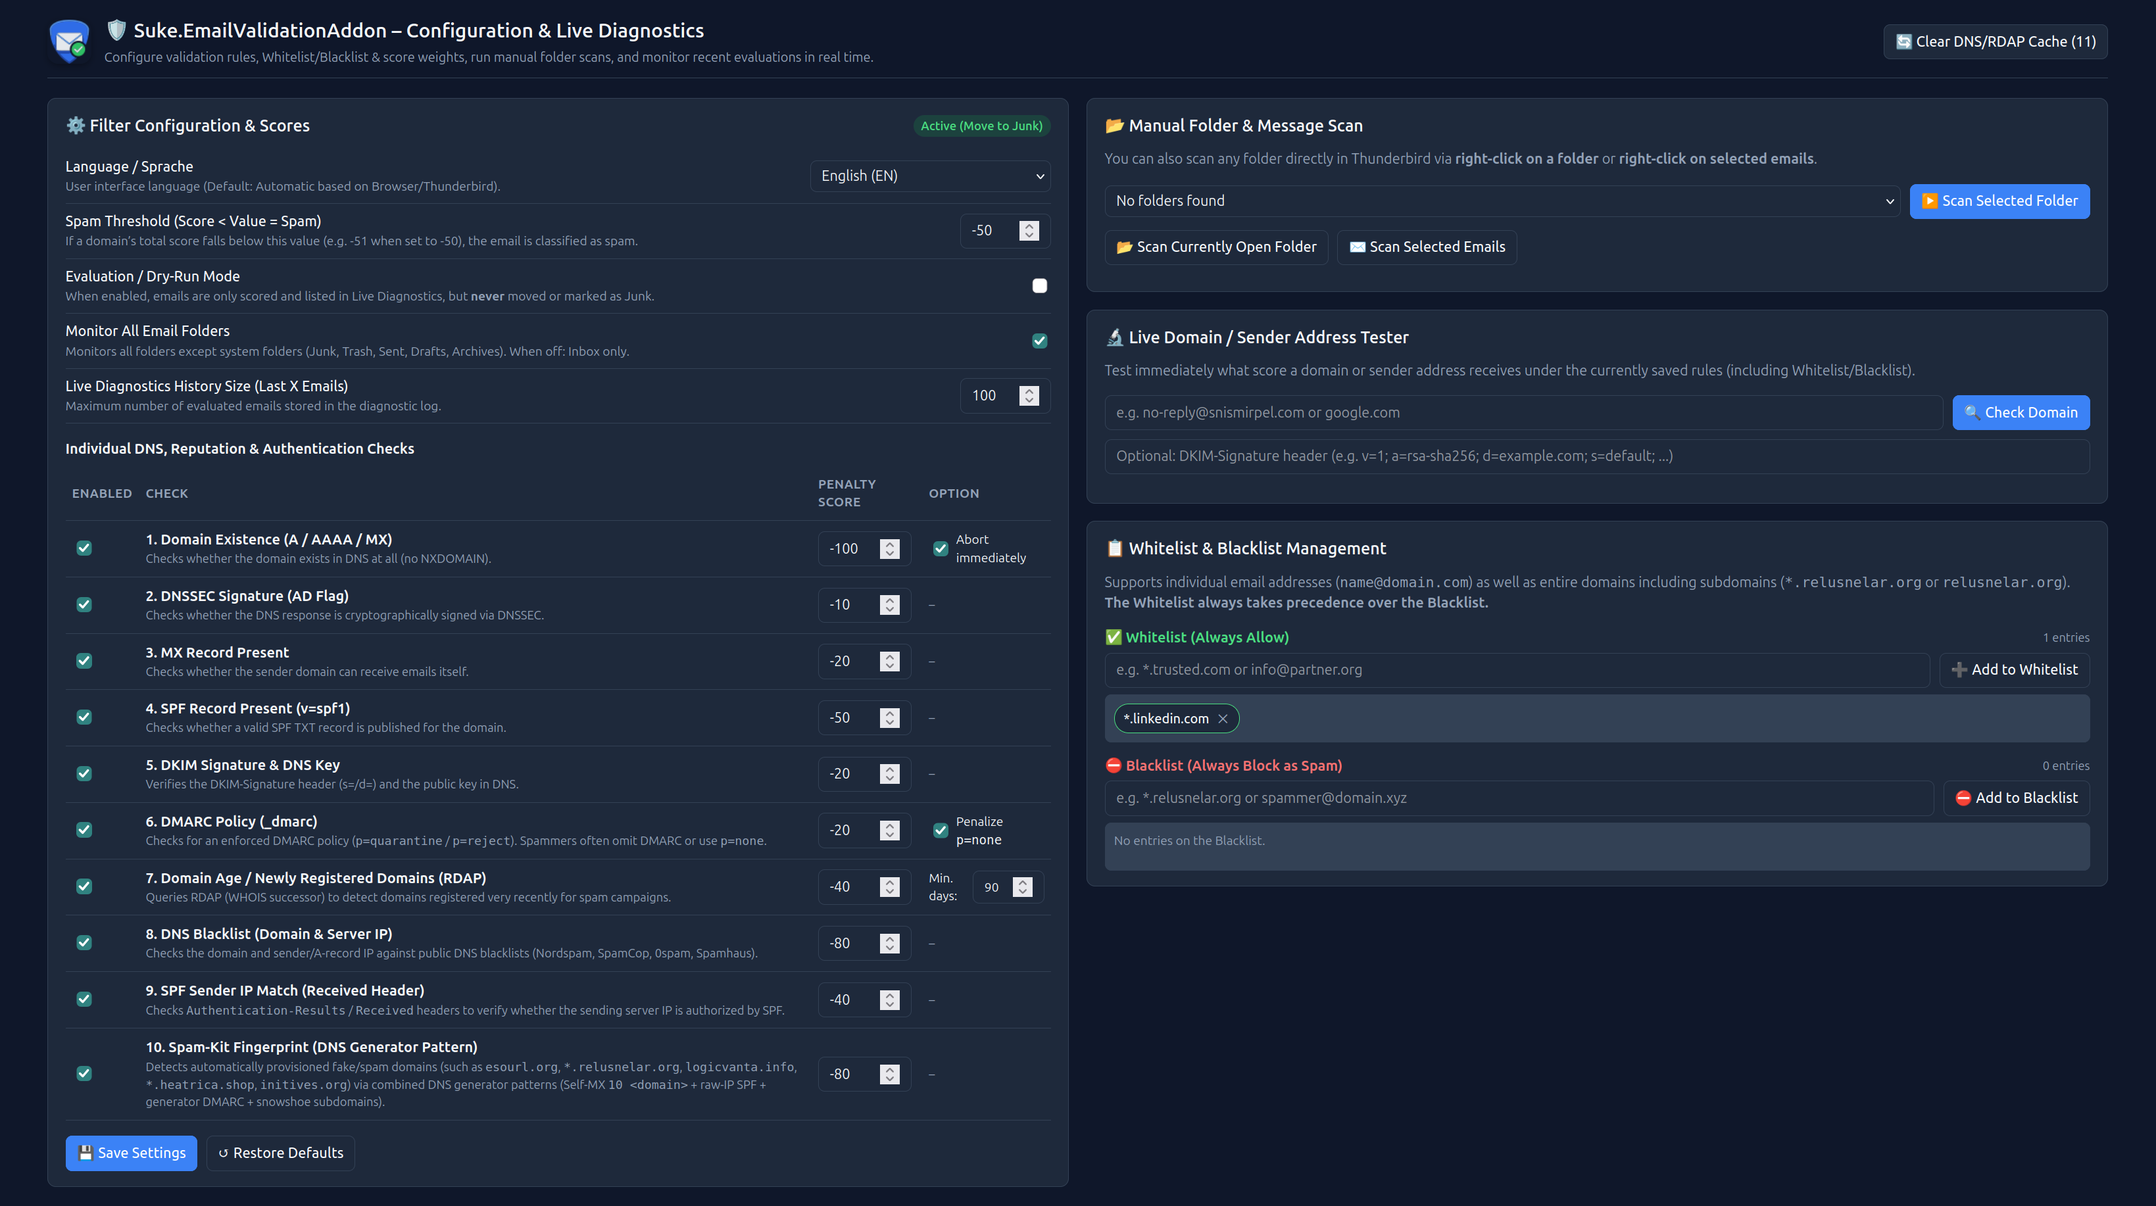
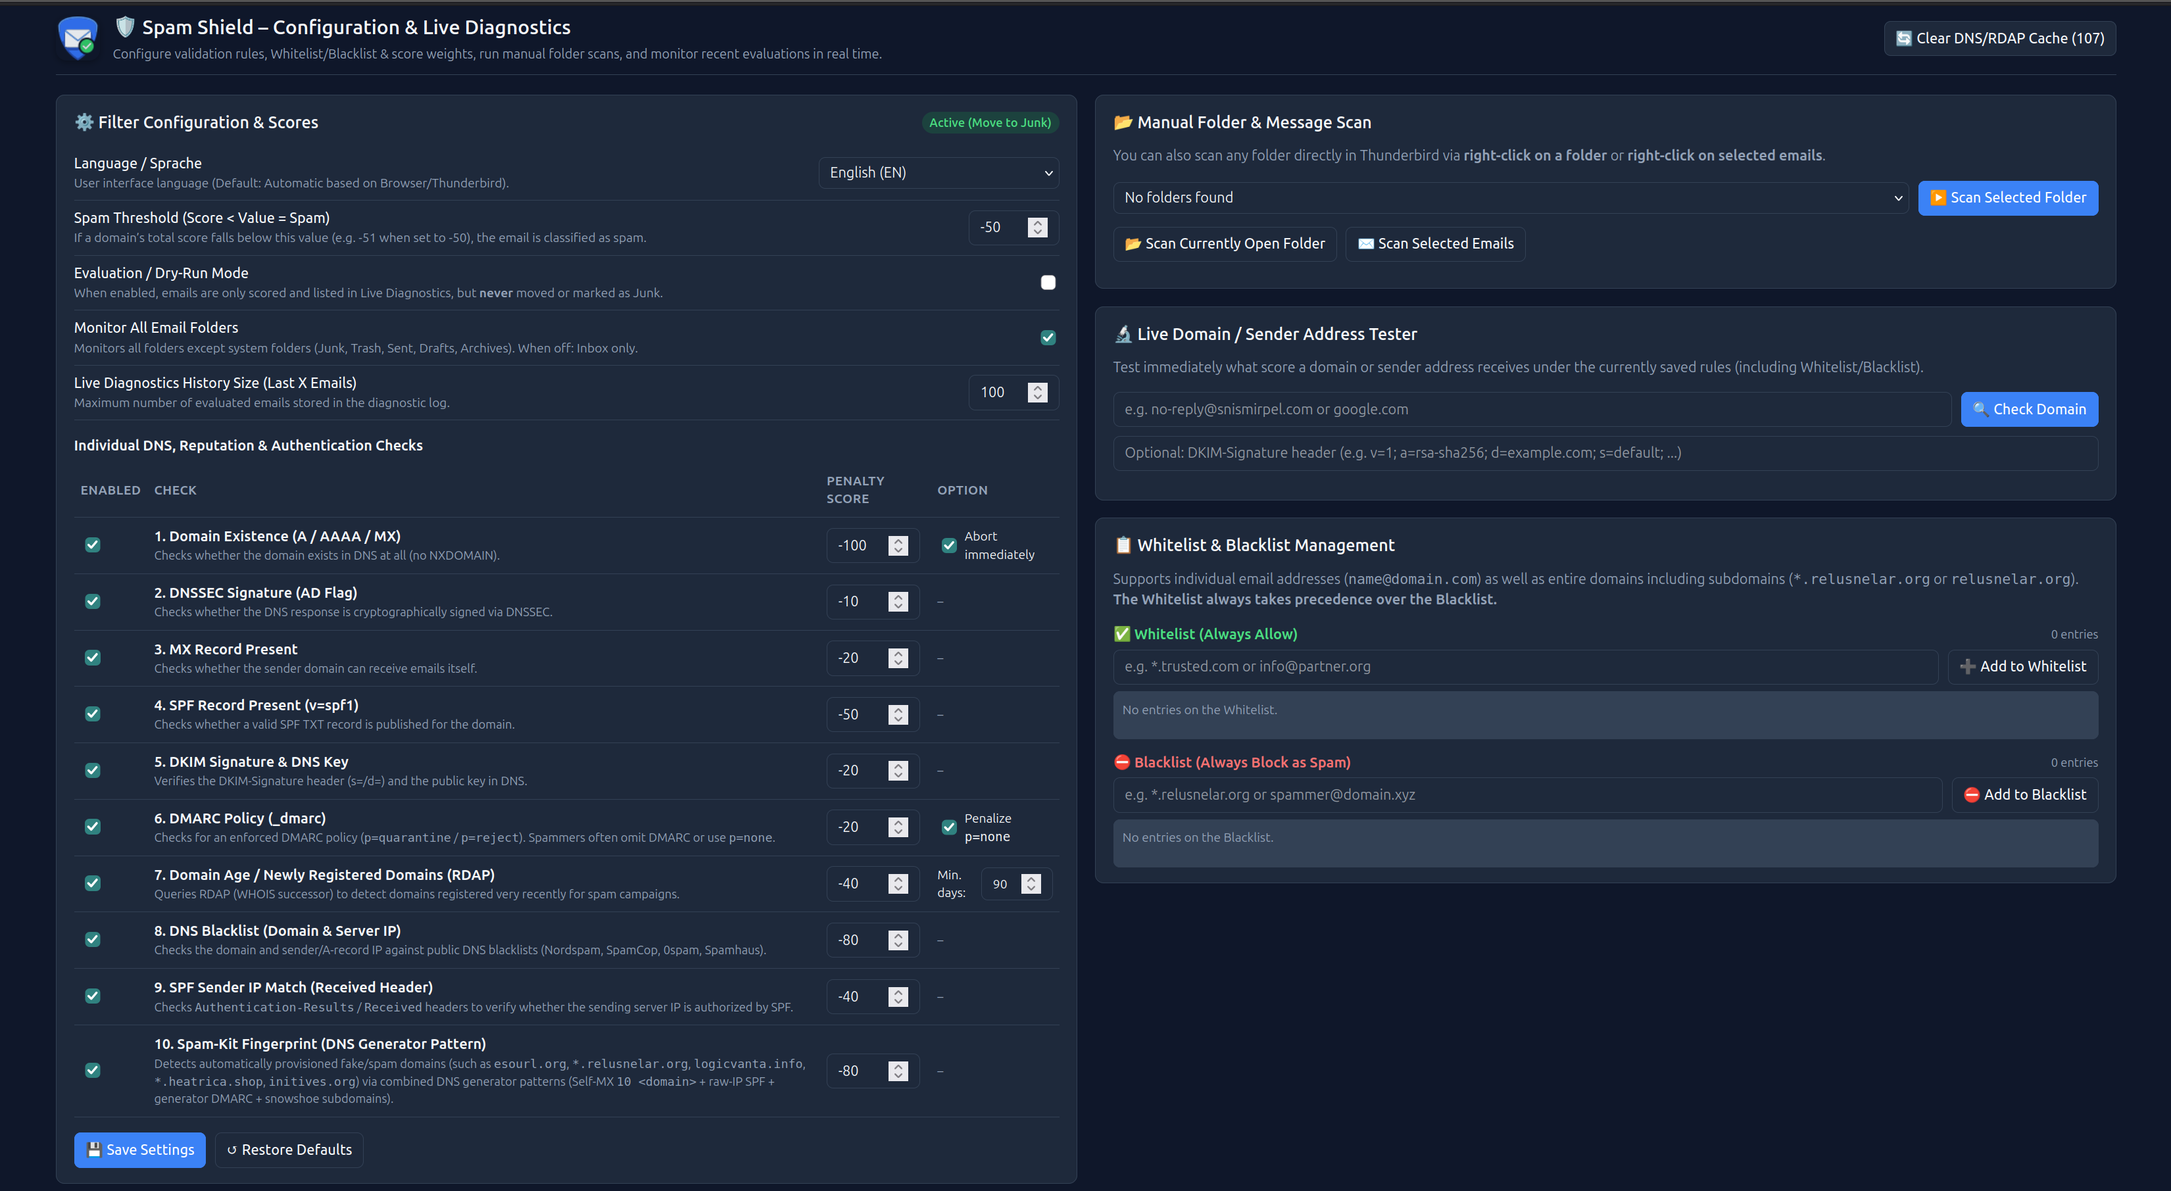
Allow check of Spam folder & Rebranding to "Spam Shield" & NEW Screentshots

diff --git a/background.js b/background.js
@@ -28,6 +28,22 @@ const g_RDAP_CACHE_TTL_MS = 60 * 60 * 1000; // 60 minutes
 const g_IGNORED_FOLDER_TYPES = new Set(['junk', 'trash', 'sent', 'drafts', 'templates', 'outbox', 'archives']);
 
 /**
+ * Checks whether a folder represents a Junk, Spam, or Trash folder
+ * @param {object|null} folder MailFolder object
+ * @returns {boolean}
+ */
+function isJunkOrTrashFolder(folder) {
+    if (!folder) return false;
+    if (Array.isArray(folder.specialUse)) {
+        if (folder.specialUse.includes('junk') || folder.specialUse.includes('trash')) {
+            return true;
+        }
+    }
+    const name = (folder.name || '').toLowerCase();
+    return name === 'junk' || name === 'spam' || name === 'spamverdacht' || name === 'trash' || name === 'papierkorb';
+}
+
+/**
  * Default configuration for checks, scores, and behavior
  */
 const DEFAULT_SETTINGS = {
@@ -468,9 +484,20 @@ async function evaluateAndProcessMessage(message, folder, settings, source = 'au
         }
 
         // Use getHeaders() instead of getFull() to avoid parsing the full MIME body
-        const headers = messenger.messages.getHeaders
-            ? await messenger.messages.getHeaders(message.id)
-            : (await messenger.messages.getFull(message.id)).headers;
+        // Protected by a timeout promise so slow/unresponsive IMAP connections never freeze evaluation
+        let headers = null;
+        try {
+            const headersPromise = messenger.messages.getHeaders
+                ? messenger.messages.getHeaders(message.id)
+                : messenger.messages.getFull(message.id).then(m => m.headers);
+            headers = await Promise.race([
+                headersPromise,
+                new Promise((_, reject) => setTimeout(() => reject(new Error('getHeaders timeout (5s)')), 5000))
+            ]);
+        } catch (headerErr) {
+            console.warn(`Could not retrieve headers for message ${message.id}:`, headerErr);
+            headers = null;
+        }
         const dkimSig = headers ? headers['dkim-signature'] : null;
 
         // Perform detailed domain validation (passing full headers and senderEmail for Whitelist/Blacklist & SPF-IP)
@@ -600,12 +627,24 @@ async function scanMessageList(msgList, folder = null, source = 'message-scan') 
 
     try {
         for (const message of allMessages) {
-            const res = await evaluateAndProcessMessage(message, effectiveFolder || message.folder, settings, source);
-            g_SCAN_STATE.processed += 1;
-            if (res && res.isSpam) {
-                g_SCAN_STATE.spamCount += 1;
+            try {
+                // Per-message safety timeout: max 15 seconds per email so one bad query never blocks the scan
+                const res = await Promise.race([
+                    evaluateAndProcessMessage(message, effectiveFolder || message.folder, settings, source),
+                    new Promise((_, reject) => setTimeout(() => reject(new Error('Evaluation timeout (15s)')), 15000))
+                ]);
+                if (res && res.isSpam) {
+                    g_SCAN_STATE.spamCount += 1;
+                }
+            } catch (msgErr) {
+                console.error(`Error or timeout processing message ${message.id}:`, msgErr);
+            } finally {
+                g_SCAN_STATE.processed += 1;
+                notifyUI({ type: 'SCAN_PROGRESS', scanState: g_SCAN_STATE });
             }
-            notifyUI({ type: 'SCAN_PROGRESS', scanState: g_SCAN_STATE });
+
+            // Yield 50ms between messages so the event loop stays responsive and DoH/RDAP servers are not hammered
+            await new Promise(r => setTimeout(r, 50));
         }
     } finally {
         g_SCAN_STATE.running = false;
@@ -632,7 +671,13 @@ async function markAndMoveToSpam(message, sourceFolder) {
         console.warn(`Could not update junk flag on message ${message.id}:`, err);
     }
 
-    // 2. Find the Junk folder for this account and move the message
+    // 2. If message is already located in a Junk, Spam, or Trash folder, do not attempt to move it
+    if (isJunkOrTrashFolder(sourceFolder) || isJunkOrTrashFolder(message.folder)) {
+        console.log(`Message ${message.id} is already in a Junk/Spam folder. Skipping move.`);
+        return;
+    }
+
+    // 3. Find the Junk folder for this account and move the message
     try {
         const accountId = (sourceFolder && sourceFolder.accountId) || (message.folder && message.folder.accountId);
         if (!accountId) {
@@ -1218,8 +1263,11 @@ async function getRdapTldMap() {
     }
 
     g_RDAP_BOOTSTRAP_PROMISE = (async () => {
+        const controller = new AbortController();
+        const timeoutId = setTimeout(() => controller.abort(), 4000);
         try {
-            const response = await fetch(g_IANA_RDAP_BOOTSTRAP_URL);
+            const response = await fetch(g_IANA_RDAP_BOOTSTRAP_URL, { signal: controller.signal });
+            clearTimeout(timeoutId);
             if (!response.ok) {
                 return new Map();
             }
@@ -1713,9 +1761,12 @@ async function getDNSEntry(domain, type, returnRawStatus = false) {
     } else {
         const url = `${g_DOH_SERVICE_URL}?name=${encodeURIComponent(domain)}&type=${encodeURIComponent(type)}`;
         const headers = { 'accept': 'application/dns-json' };
+        const controller = new AbortController();
+        const timeoutId = setTimeout(() => controller.abort(), 4000);
 
         try {
-            const response = await fetch(url, { headers });
+            const response = await fetch(url, { headers, signal: controller.signal });
+            clearTimeout(timeoutId);
             if (!response.ok) {
                 console.warn(`DoH HTTP error (${response.status}) for ${domain} (${type}).`);
                 return null;
@@ -1723,6 +1774,7 @@ async function getDNSEntry(domain, type, returnRawStatus = false) {
             data = await response.json();
             g_DNS_CACHE.set(cacheKey, { timestamp: now, data });
         } catch (error) {
+            clearTimeout(timeoutId);
             console.error('DNS query failed:', error);
             return null;
         }

diff --git a/i18n.js b/i18n.js
@@ -1,5 +1,5 @@
 /**
- * Internationalization (i18n) dictionary and helper utilities for Suke.EmailValidationAddon.
+ * Internationalization (i18n) dictionary and helper utilities for Spam Shield.
  * Supports German ('de') and English ('en'), with automatic browser/Thunderbird locale detection ('auto').
  */
 
@@ -50,16 +50,16 @@ const I18N_MESSAGES = {
         title_remove_bl: 'Von Blacklist entfernen',
 
         // Context Menus (Thunderbird folder_pane & message_list)
-        action_tooltip: 'Suke Email Validation – Live-Diagnose & Ordnerprüfung',
-        menu_validate_folder: 'Ordner auf Spam-Domains prüfen (Suke)',
-        menu_validate_messages: 'Ausgewählte E-Mail(s) auf Spam-Domain prüfen (Suke)',
-        menu_whitelist_email: 'Absender-E-Mail zur Whitelist hinzufügen (Suke)',
-        menu_whitelist_domain: 'Absender-Domain (*.domain) zur Whitelist hinzufügen (Suke)',
-        menu_blacklist_email: 'Absender-E-Mail zur Blacklist hinzufügen & als Spam behandeln (Suke)',
-        menu_blacklist_domain: 'Absender-Domain (*.domain) zur Blacklist hinzufügen & als Spam behandeln (Suke)',
+        action_tooltip: 'Spam Shield – Live-Diagnose & Ordnerprüfung',
+        menu_validate_folder: 'Ordner auf Spam-Domains prüfen (Spam Shield)',
+        menu_validate_messages: 'Ausgewählte E-Mail(s) auf Spam-Domain prüfen (Spam Shield)',
+        menu_whitelist_email: 'Absender-E-Mail zur Whitelist hinzufügen (Spam Shield)',
+        menu_whitelist_domain: 'Absender-Domain (*.domain) zur Whitelist hinzufügen (Spam Shield)',
+        menu_blacklist_email: 'Absender-E-Mail zur Blacklist hinzufügen & als Spam behandeln (Spam Shield)',
+        menu_blacklist_domain: 'Absender-Domain (*.domain) zur Blacklist hinzufügen & als Spam behandeln (Spam Shield)',
 
         // Popup UI
-        popup_title: 'Suke Email Validation',
+        popup_title: 'Spam Shield',
         popup_loading: 'Lade Status…',
         popup_open_options: '⚙ Einstellungen & Diagnose',
         popup_open_options_title: 'Konfiguration & ausführliche Live-Diagnose öffnen',
@@ -86,8 +86,8 @@ const I18N_MESSAGES = {
         conn_error_short: 'Verbindungsfehler',
 
         // Options Page UI
-        opt_page_title: 'Suke Email Validation – Konfiguration & Live-Diagnose',
-        opt_header_title: '🛡 Suke.EmailValidationAddon – Konfiguration & Live-Diagnose',
+        opt_page_title: 'Spam Shield – Konfiguration & Live-Diagnose',
+        opt_header_title: '🛡 Spam Shield – Konfiguration & Live-Diagnose',
         opt_header_subtitle: 'Konfiguriere Prüfregeln, Whitelist/Blacklist & Score-Gewichtungen, starte manuelle Ordnerprüfungen und überwache die letzten Bewertungen in Echtzeit.',
         opt_clear_cache_btn: '🔄 DNS/RDAP-Cache leeren',
         opt_clear_cache_title: 'Leert den In-Memory-Cache für DNS- und RDAP-Abfragen',
@@ -336,16 +336,16 @@ const I18N_MESSAGES = {
         title_remove_bl: 'Remove from Blacklist',
 
         // Context Menus (Thunderbird folder_pane & message_list)
-        action_tooltip: 'Suke Email Validation – Live diagnostics & folder scanner',
-        menu_validate_folder: 'Scan folder for spam domains (Suke)',
-        menu_validate_messages: 'Scan selected email(s) for spam domain (Suke)',
-        menu_whitelist_email: 'Add sender email to Whitelist (Suke)',
-        menu_whitelist_domain: 'Add sender domain (*.domain) to Whitelist (Suke)',
-        menu_blacklist_email: 'Add sender email to Blacklist & mark as Spam (Suke)',
-        menu_blacklist_domain: 'Add sender domain (*.domain) to Blacklist & mark as Spam (Suke)',
+        action_tooltip: 'Spam Shield – Live diagnostics & folder scanner',
+        menu_validate_folder: 'Scan folder for spam domains (Spam Shield)',
+        menu_validate_messages: 'Scan selected email(s) for spam domain (Spam Shield)',
+        menu_whitelist_email: 'Add sender email to Whitelist (Spam Shield)',
+        menu_whitelist_domain: 'Add sender domain (*.domain) to Whitelist (Spam Shield)',
+        menu_blacklist_email: 'Add sender email to Blacklist & mark as Spam (Spam Shield)',
+        menu_blacklist_domain: 'Add sender domain (*.domain) to Blacklist & mark as Spam (Spam Shield)',
 
         // Popup UI
-        popup_title: 'Suke Email Validation',
+        popup_title: 'Spam Shield',
         popup_loading: 'Loading status…',
         popup_open_options: '⚙ Settings & Diagnostics',
         popup_open_options_title: 'Open configuration & detailed live diagnostics',
@@ -372,8 +372,8 @@ const I18N_MESSAGES = {
         conn_error_short: 'Connection error',
 
         // Options Page UI
-        opt_page_title: 'Suke Email Validation – Configuration & Live Diagnostics',
-        opt_header_title: '🛡 Suke.EmailValidationAddon – Configuration & Live Diagnostics',
+        opt_page_title: 'Spam Shield – Configuration & Live Diagnostics',
+        opt_header_title: '🛡 Spam Shield – Configuration & Live Diagnostics',
         opt_header_subtitle: 'Configure validation rules, Whitelist/Blacklist & score weights, run manual folder scans, and monitor recent evaluations in real time.',
         opt_clear_cache_btn: '🔄 Clear DNS/RDAP Cache',
         opt_clear_cache_title: 'Clears the in-memory cache for DNS and RDAP lookups',

diff --git a/options.html b/options.html
@@ -2,7 +2,7 @@
 <html lang="de">
 <head>
   <meta charset="UTF-8">
-  <title data-i18n="opt_page_title">Suke Email Validation – Konfiguration &amp; Live-Diagnose</title>
+  <title data-i18n="opt_page_title">Spam Shield – Konfiguration &amp; Live-Diagnose</title>
   <link rel="stylesheet" href="styles.css">
 </head>
 <body>
@@ -11,7 +11,7 @@
       <div style="display:flex; align-items:center; gap:12px;">
         <img src="icons/icon-48.png" width="40" height="40" alt="Logo" style="border-radius:10px; box-shadow:0 2px 6px rgba(0,0,0,0.3);">
         <div>
-          <h1 data-i18n="opt_header_title">Suke.EmailValidationAddon – Konfiguration &amp; Live-Diagnose</h1>
+          <h1 data-i18n="opt_header_title">Spam Shield – Konfiguration &amp; Live-Diagnose</h1>
           <p data-i18n="opt_header_subtitle">Konfiguriere Prüfregeln, Whitelist/Blacklist &amp; Score-Gewichtungen, starte manuelle Ordnerprüfungen und überwache die letzten Bewertungen in Echtzeit.</p>
         </div>
       </div>

diff --git a/popup.html b/popup.html
@@ -2,7 +2,7 @@
 <html lang="de">
 <head>
   <meta charset="UTF-8">
-  <title data-i18n="popup_title">Suke Email Validation</title>
+  <title data-i18n="popup_title">Spam Shield</title>
   <link rel="stylesheet" href="styles.css">
 </head>
 <body class="popup-body">
@@ -10,7 +10,7 @@
     <div style="display:flex; align-items:center; gap:8px;">
       <img src="icons/icon-32.png" width="28" height="28" alt="Logo" style="border-radius:6px;">
       <div>
-        <h1 data-i18n="popup_title">Suke Email Validation</h1>
+        <h1 data-i18n="popup_title">Spam Shield</h1>
         <p id="modeIndicator" data-i18n="popup_loading">Lade Status…</p>
       </div>
     </div>

diff --git a/PRIVACY.md b/PRIVACY.md
@@ -1,6 +1,6 @@
 # Privacy Policy / Datenschutzerklärung
 
-**Suke.EmailValidationAddon for Thunderbird**  
+**Spam Shield for Thunderbird**  
 *Last updated: November 2026*
 
 ---
@@ -8,7 +8,7 @@
 ## English
 
 ### 1. General Principles
-**Suke.EmailValidationAddon** is committed to protecting your privacy. The add-on is designed to operate locally within your Thunderbird client. It does not track you, does not include any analytics or advertising frameworks, and never sells or collects personal data.
+**Spam Shield** is committed to protecting your privacy. The add-on is designed to operate locally within your Thunderbird client. It does not track you, does not include any analytics or advertising frameworks, and never sells or collects personal data.
 
 ### 2. Data Processed Locally
 * **Email Sender & Headers:** To evaluate incoming emails, the add-on extracts the sender domain and relevant authentication headers (`DKIM-Signature`, `Received`, `Authentication-Results`).
@@ -29,7 +29,7 @@ No personal data is collected or shared with the author or any third party. The 
 ## Deutsch
 
 ### 1. Grundsätzliches
-**Suke.EmailValidationAddon** schützt Ihre Privatsphäre. Die Erweiterung arbeitet primär lokal in Ihrem Thunderbird-Mailprogramm. Es werden keine Telemetrie- oder Analysedaten erhoben, keine Werbung ausgespielt und keinerlei personenbezogene Daten gesammelt oder verkauft.
+**Spam Shield** schützt Ihre Privatsphäre. Die Erweiterung arbeitet primär lokal in Ihrem Thunderbird-Mailprogramm. Es werden keine Telemetrie- oder Analysedaten erhoben, keine Werbung ausgespielt und keinerlei personenbezogene Daten gesammelt oder verkauft.
 
 ### 2. Lokal verarbeitete Daten
 * **Absender & E-Mail-Header:** Zur Bewertung eingehender E-Mails liest das Add-on die Domain des Absenders sowie relevante Authentifizierungs-Header (`DKIM-Signature`, `Received`, `Authentication-Results`) aus.

diff --git a/README.de.md b/README.de.md
@@ -1,4 +1,4 @@
-# EmailValidationAddon für THUNDERBIRD
+# Spam Shield für THUNDERBIRD
 
 **Zielplattform:** Thunderbird 128 ESR bis 158.0.1+ (64-Bit, Manifest V3)  
 **Lizenz:** [MIT License](LICENSE) · **Datenschutz:** [Datenschutzerklärung](PRIVACY.md) · **English Version:** [README.md](README.md)
@@ -44,9 +44,9 @@ Obwohl der Spammer für `snismirpel.com` gültige `A`-, `MX`-, `SPF`- und `DKIM`
 ## Features & Benutzeroberfläche
 
 1. **Kontextmenü-Integration in Thunderbird**
-   * **Rechtsklick auf einen Ordner** in der Ordnerliste -> *„Ordner auf Spam-Domains prüfen (Suke)“*
+   * **Rechtsklick auf einen Ordner** in der Ordnerliste -> *„Ordner auf Spam-Domains prüfen (Spam Shield)“*
    * **Rechtsklick auf markierte E-Mail(s)** in der Nachrichtenliste ->
-     * *„Ausgewählte E-Mail(s) auf Spam-Domain prüfen (Suke)“*
+     * *„Ausgewählte E-Mail(s) auf Spam-Domain prüfen (Spam Shield)“*
      * *„Absender-E-Mail / Absender-Domain (`*.domain`) zur Whitelist hinzufügen“*
      * *„Absender-E-Mail / Absender-Domain (`*.domain`) zur Blacklist hinzufügen & als Spam behandeln“*
 2. **Toolbar-Popup ([popup.html](popup.html))**
@@ -65,10 +65,10 @@ Obwohl der Spammer für `snismirpel.com` gültige `A`-, `MX`-, `SPF`- und `DKIM`
 
 ## Build & Installation
 
-Zum Erstellen des Add-on-Pakets (`Suke.EmailValidationAddon.xpi`):
+Zum Erstellen des Add-on-Pakets (`spam.shield.xpi`):
 ```bash
 ./pack.sh
 ```
 
-Installation in Thunderbird über **Add-ons-Verwaltung (`Strg + Umschalt + A`) -> Zahnrad-Symbol -> „Add-on aus Datei installieren…“ -> `Suke.EmailValidationAddon.xpi`**.
+Installation in Thunderbird über **Add-ons-Verwaltung (`Strg + Umschalt + A`) -> Zahnrad-Symbol -> „Add-on aus Datei installieren…“ -> `spam.shield.xpi`**.
 

diff --git a/README.md b/README.md
@@ -1,4 +1,4 @@
-# EmailValidationAddon for THUNDERBIRD
+# Spam Shield for THUNDERBIRD
 
 **Target:** Thunderbird 128 ESR to 158.0.1+ (64-Bit, Manifest V3)  
 **License:** [MIT License](LICENSE) · **Privacy:** [Privacy Policy](PRIVACY.md) · **Deutsche Version:** [README.de.md](README.de.md)
@@ -46,9 +46,9 @@ Even though the spammer configured valid `A`, `MX`, `SPF`, and `DKIM` records:
 ## Features & User Interface
 
 1. **Native Thunderbird Context Menus**
-   * **Right-click on any folder** in the folder pane -> *"Scan folder for spam domains (Suke)"*
+   * **Right-click on any folder** in the folder pane -> *"Scan folder for spam domains (Spam Shield)"*
    * **Right-click on selected email(s)** in the message list ->
-     * *"Scan selected email(s) for spam domain (Suke)"*
+     * *"Scan selected email(s) for spam domain (Spam Shield)"*
      * *"Add sender email / domain (`*.domain`) to Whitelist"*
      * *"Add sender email / domain (`*.domain`) to Blacklist & mark as Spam"*
 2. **Toolbar Popup ([popup.html](popup.html))**
@@ -67,9 +67,9 @@ Even though the spammer configured valid `A`, `MX`, `SPF`, and `DKIM` records:
 
 ## Building & Packaging
 
-To generate the installation package (`Suke.EmailValidationAddon.xpi`):
+To generate the installation package (`spam.shield.xpi`):
 ```bash
 ./pack.sh
 ```
 
-Install into Thunderbird via **Add-ons Manager (`Ctrl + Shift + A`) -> Gear Icon -> "Install Add-on From File…" -> select `Suke.EmailValidationAddon.xpi`**.
+Install into Thunderbird via **Add-ons Manager (`Ctrl + Shift + A`) -> Gear Icon -> "Install Add-on From File…" -> select `spam.shield.xpi`**.
